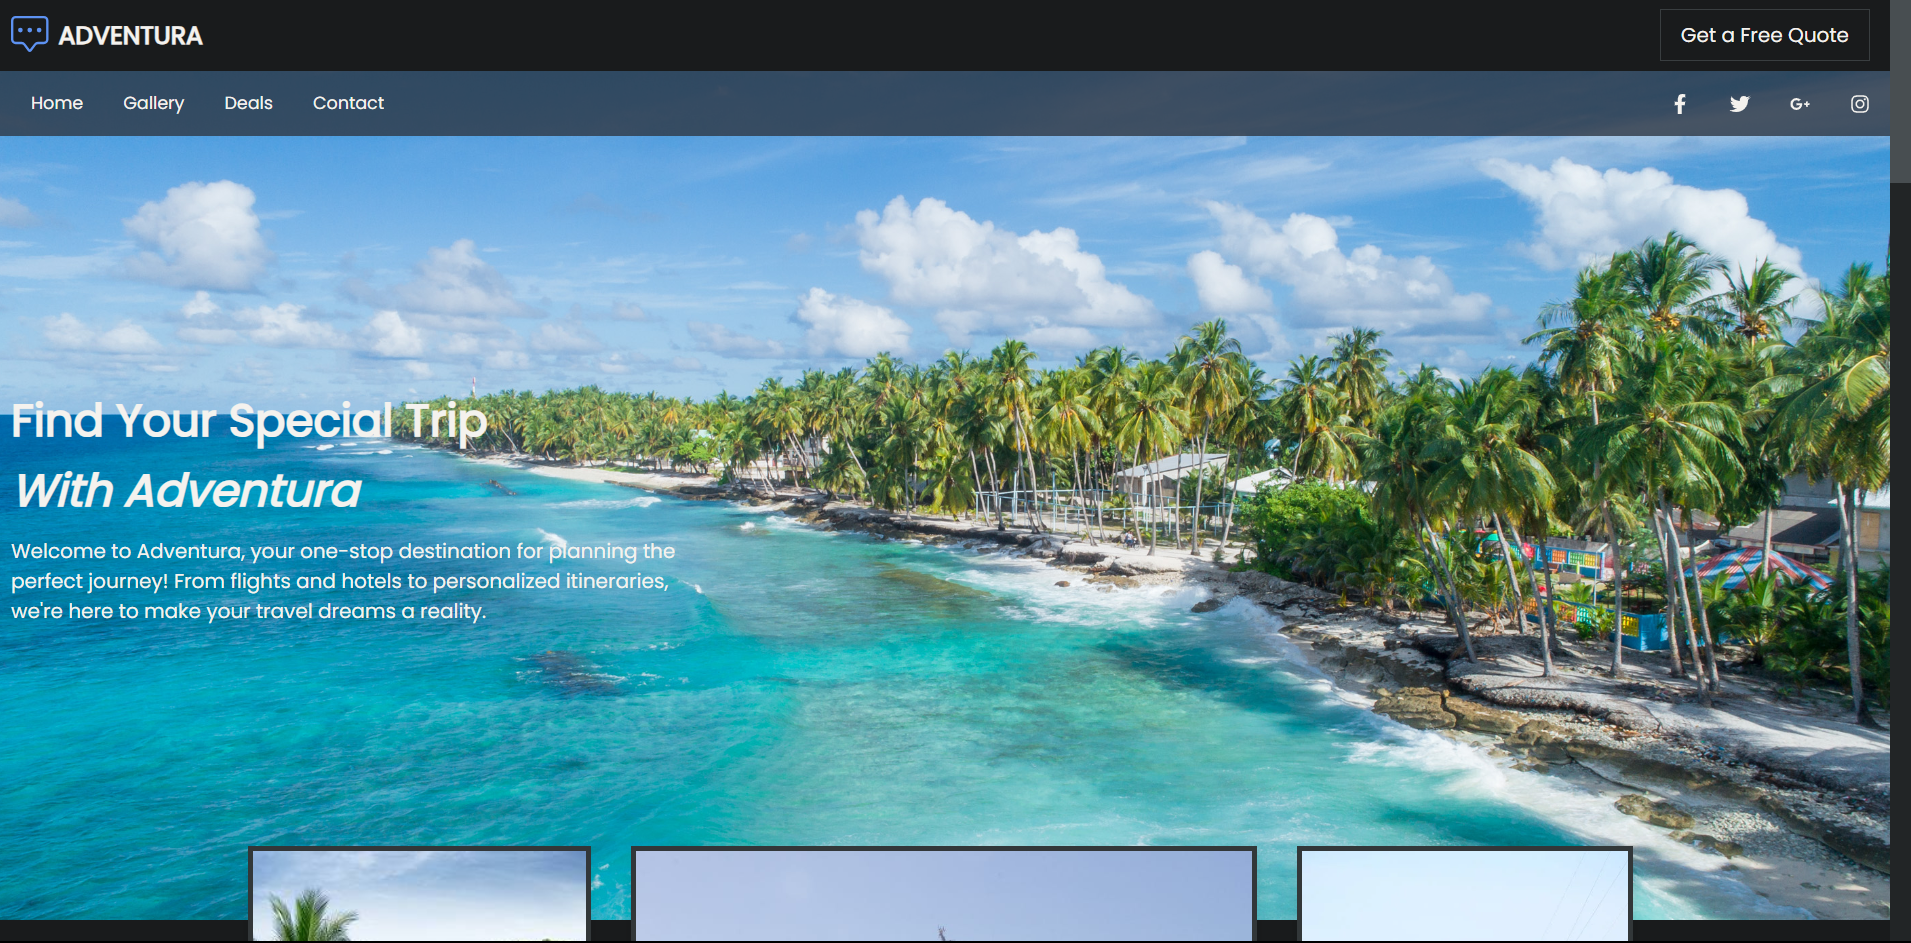
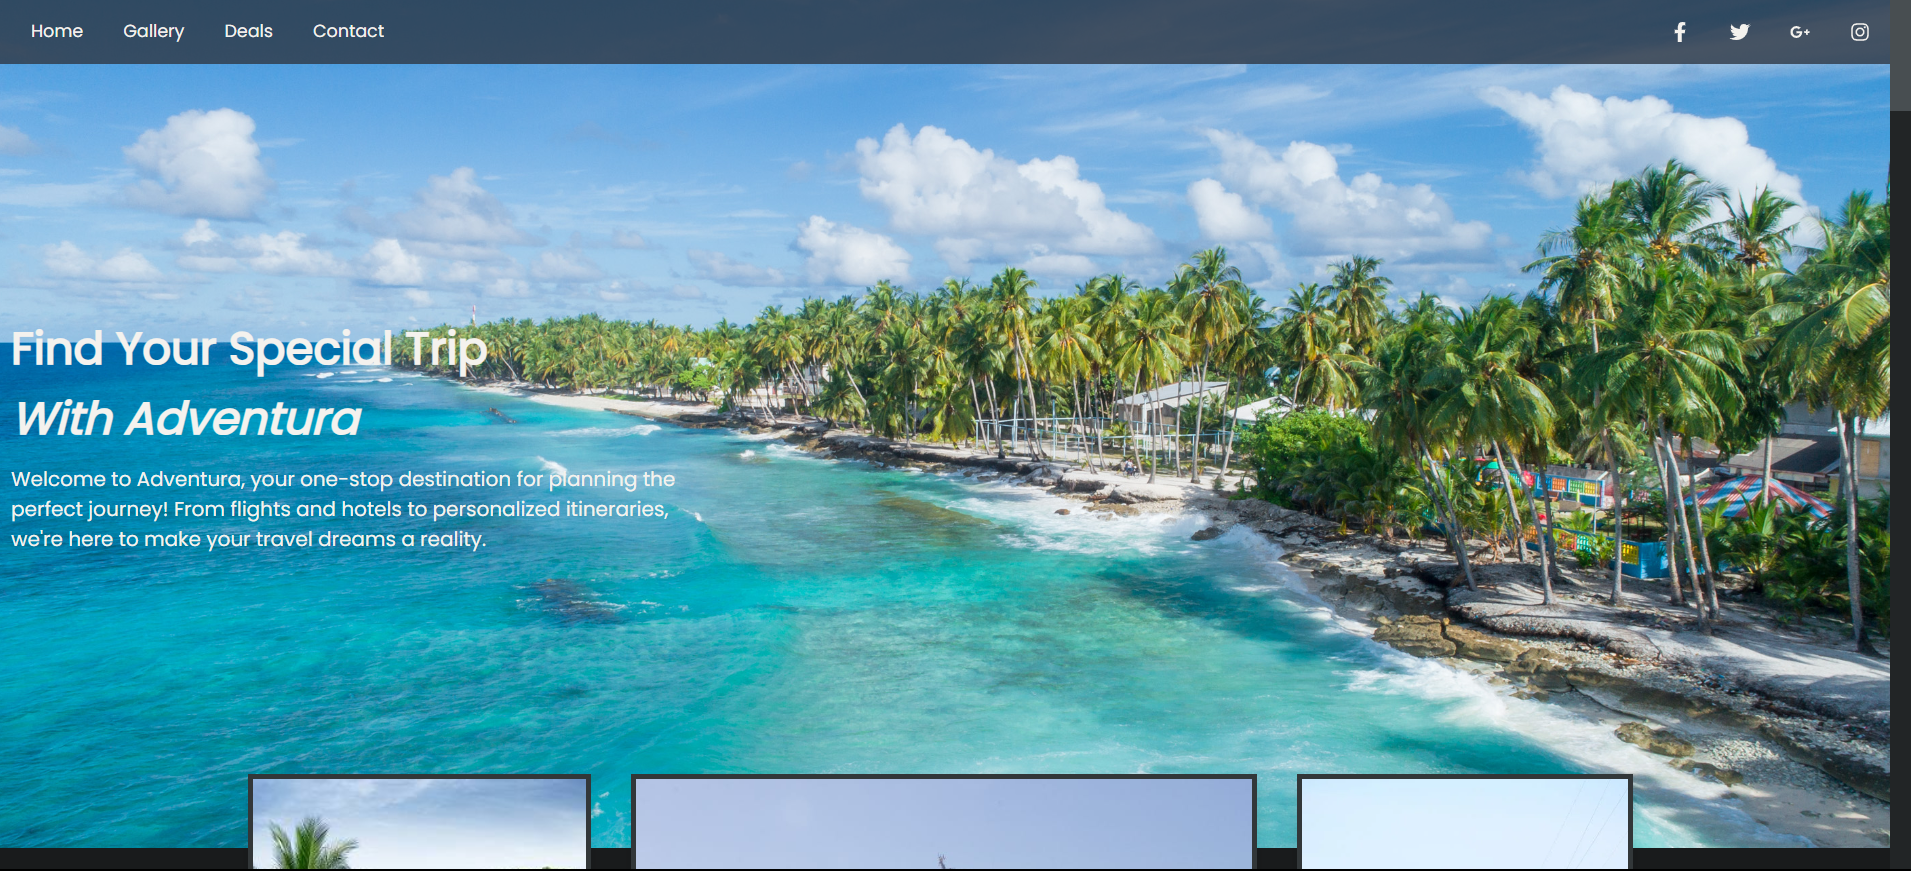
make responsive  part i

diff --git a/src/containers/portfolio/index.jsx b/src/containers/portfolio/index.jsx
@@ -21,7 +21,7 @@ const portfolioData=[
     id:3,
     name:"Weather",
     image:image5,
-    link:"https://github.com/sourav-sm/Add_to_Cart",
+    link:"https://github.com/sourav-sm/ForecastGuru.",
   },
   {
     id:2,
@@ -42,20 +42,20 @@ const portfolioData=[
   // },
 ]
 
-const filterData = [
-  {
-    filterData:1,
-    label:'All'
-  },
-  {
-    filterData:2,
-    label:'Development'
-  },
-  {
-    filterData:3,
-    label:'Design'
-  }
-]
+// const filterData = [
+//   {
+//     filterData:1,
+//     label:'All'
+//   },
+//   {
+//     filterData:2,
+//     label:'Development'
+//   },
+//   {
+//     filterData:3,
+//     label:'Design'
+//   }
+// ]
 const Portfolio=()=>{
   const [filteredvalue, setFilteredValue] = useState(1);
   const [hoveredValue, setHoveredValue] = useState(null);
@@ -86,17 +86,17 @@ const Portfolio=()=>{
         icon={<BsInfoCircleFill size={40} />}
       />
       <div className="portfolio__content">
-        <ul className="portfolio__content__filter">
-          {filterData.map((item) => (
-            <li
-              className={item.filterId === filteredvalue ? "active" : ""}
-              onClick={() => handleFilter(item.filterId)}
-              key={item.filterId}
-            >
-              {item.label}
-            </li>
-          ))}
-        </ul>
+        {/* <ul className="portfolio__content__filter">
+          {/* {filterData.map((item) => (
+            // <li
+            //   className={item.filterId === filteredvalue ? "active" : ""}
+            //   onClick={() => handleFilter(item.filterId)}
+            //   key={item.filterId}
+            // >
+            //   {item.label}
+            // </li>
+          ))} */}
+        {/* </ul> */} 
         <div className="portfolio__content__cards">
           {filteredItems.map((item, index) => (
             <div
@@ -106,7 +106,7 @@ const Portfolio=()=>{
               onMouseLeave={() => handleHover(null)}
             >
               <div className="portfolio__content__cards__item__img-wrapper">
-                <a href={item.link} target="_blank">  rel="noopener noreferrer">
+                <a href={item.link} target="_blank" rel="noopener noreferrer">
                   <img alt="dummy data" src={item.image} />
                 </a>
               </div>

diff --git a/src/compnents/navBar/styles.scss b/src/compnents/navBar/styles.scss
@@ -24,39 +24,39 @@
         list-style: none;
         text-align: center;
         
-        &_item{
+          &_item{
             line-height: 40px;
             margin-right: 1.5rem;
             font-size: 1.6rem;
 
-        &::after{
-            content: '';
-            display: block;
-            height: 3px;
-            width: 0;
-            background: transparent;
-            transition: all 0.5s ease;
-        }
+             &::after{
+              content: '';
+              display: block;
+              height: 3px;
+              width: 0;
+              background:transparent;
+              transition: all 0.5s ease;
+             }
 
-        &:hover::after{
-            width: 100%;
-            background: var(--yellow-theme-main-color);
-        }
+              &:hover::after{
+              width: 100%;
+              background: var(--yellow-theme-main-color);
+             }
 
-        &_links{
-            color: var(--yellow-theme-main-color);
-            text-decoration: none;
-            padding: 0.5rem;      
-        }
-     }
-    }
+             &_links{
+              color: var(--yellow-theme-main-color);
+              text-decoration: none;
+              padding: 0.5rem;      
+            }
+          }
+       }
    }
 }
-.nav-icon{
+.nav-icons{
     display: none;
 }
 
-@media only screen and (max-width:760px) {
+@media only screen and (max-width:768px) {
     .navbar_container_menu{
         display: flex;
         flex-direction: column;
@@ -69,19 +69,19 @@
         transition: all 0.5s ease;
 
         &.active{
-            background: #181818;
+            background: #151414;
             left: 0px;
             opacity: 1;
         }
 
         &_item{
-            border-bottom: 1px solid #282828;
+            border-bottom: 1px solid #000000;
             margin: 0px;
             padding: 20px 0px;
         }
     }
 
-    .nav-icon{
+    .nav-icons{
         display: block;
         cursor: pointer;
         color: var(--yellow-theme-main-color);

diff --git a/src/compnents/navBar/index.jsx b/src/compnents/navBar/index.jsx
@@ -45,7 +45,7 @@ const Navbar = () => {
           <FaReact size={30} />
         </Link>
       </div>
-      <ul className={`navbar_container_menu ${toggleIcon ? "active" : ""}`}>
+      <ul className={`navbar_container_menu ${toggleIcon ? "active" : " "}`}>
         {data.map((item, key) => (
           <li key={key} className="navbar_container_menu_item"> {/* Make sure you have CSS classes for 'navbar_container_menu_item' */}
             <Link

diff --git a/src/containers/about/index.jsx b/src/containers/about/index.jsx
@@ -13,7 +13,7 @@ const personalDetails = [
   },
   {
     label: "Age",
-    value: "20",
+    value: "21",
   },
   {
     label: "Address",
@@ -21,7 +21,7 @@ const personalDetails = [
   },
   {
     label: "Email",
-    value: "souravmohanta4428@gmail.com",
+    value: "developersourav135@gmail.com",
   },
   {
     label: "Contact",

diff --git a/src/containers/home/styles.scss b/src/containers/home/styles.scss
@@ -44,11 +44,7 @@
             }
         }
         }
-    // &_download-resume{
-    //     display: flex;
-    //      justify-content: center; 
-    //      margin-top: 15px; 
-    // }
+        
     &_social-media-icons{
         display: flex;
         justify-content: center;
